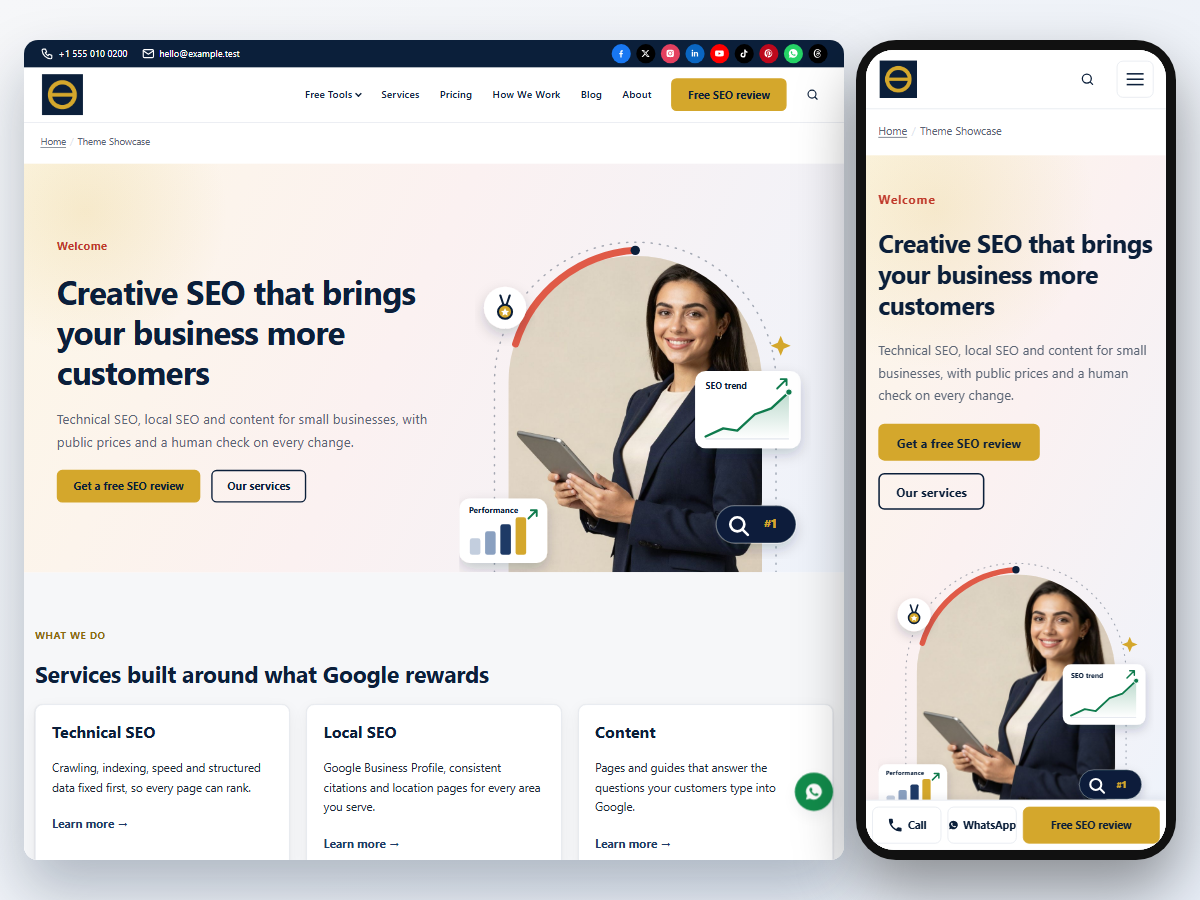
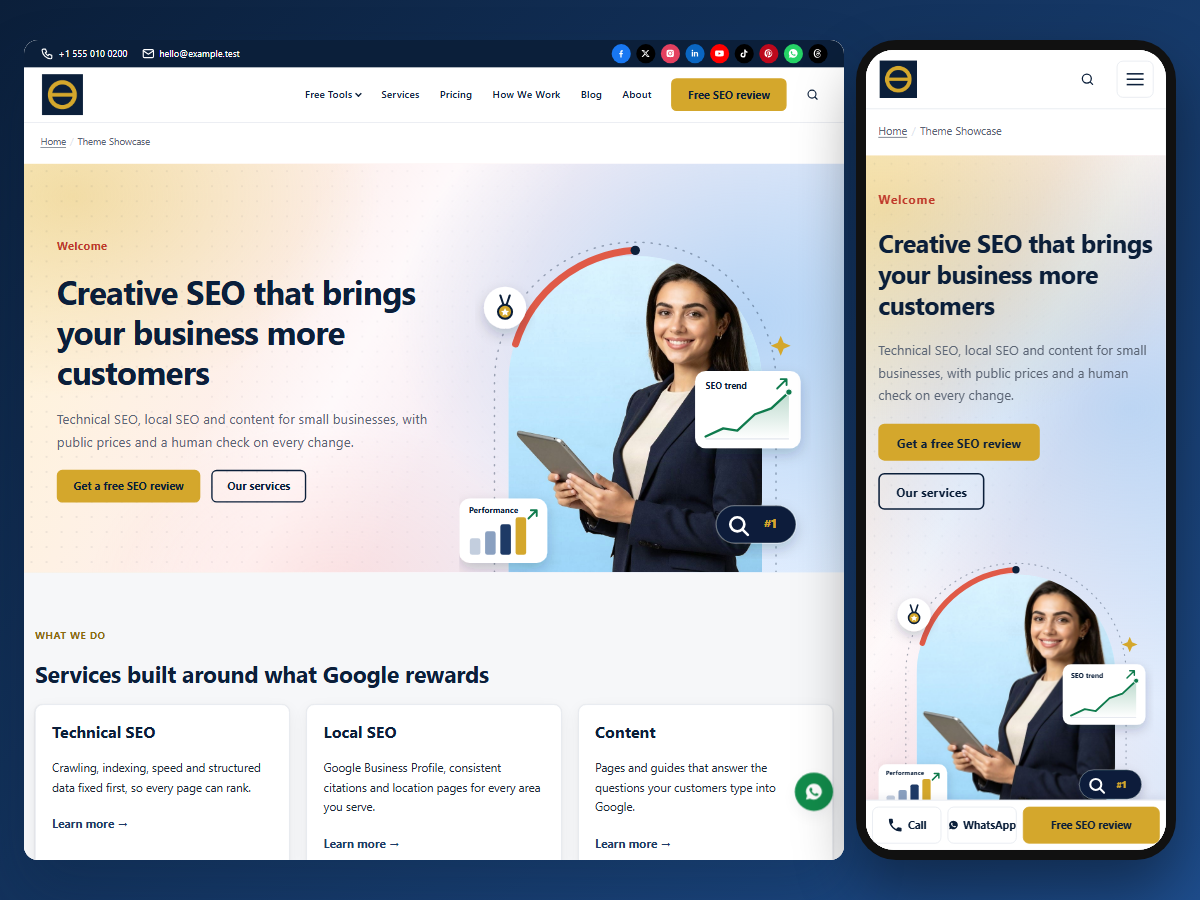
Theme 1.3.5 / child 1.2.5 / SEMRS Site 1.1.2: shiny hero background, retouched sky-blue photo, navy screenshots

diff --git a/semrs-site/theme/semrs/style.css b/semrs-site/theme/semrs/style.css
@@ -4,7 +4,7 @@ Theme URI:         https://semrs.com/
 Author:            SEMRS
 Author URI:        https://semrs.com/
 Description:       Lightweight, SEO-first theme for businesses, agencies and blogs. Drag-and-drop header and footer builder with top bar, sticky and transparent header, header search and a mobile menu panel. Seven section patterns, sidebar layouts, blog grid or list, reading progress bar, author box, related posts and per-page header, footer and sidebar options. No jQuery: one stylesheet and one small script.
-Version:           1.3.4
+Version:           1.3.5
 Requires at least: 6.5
 Tested up to:      7.1
 Requires PHP:      7.4
@@ -535,8 +535,8 @@ label { font-weight: 600; color: var(--sp-primary); }
 
 /* ---------- C7. Hero with cover image ---------- */
 .semrs-hero-cover, .entry-content > .wp-block-group.alignfull.semrs-hero-cover, .sp-full-width .entry-content > .wp-block-group.alignfull.semrs-hero-cover { padding-left: clamp(16px, 4vw, 48px); padding-right: clamp(16px, 4vw, 48px); }
-.semrs-hero-cover { position: relative; overflow: hidden; padding-bottom: 0; background: linear-gradient(115deg, #fdf7e7 0%, #fbf1f1 45%, #eef3fb 100%); }
-.semrs-hero-cover::before { content: ""; position: absolute; left: -120px; top: -140px; width: 420px; height: 420px; border-radius: 50%; background: radial-gradient(circle, rgba(212, 167, 44, .16), rgba(212, 167, 44, 0) 70%); pointer-events: none; }
+.semrs-hero-cover { position: relative; overflow: hidden; padding-bottom: 0; background: radial-gradient(640px 420px at 6% 8%, rgba(212, 167, 44, .30), rgba(212, 167, 44, 0) 70%), radial-gradient(760px 560px at 88% 38%, rgba(86, 166, 236, .34), rgba(86, 166, 236, 0) 68%), radial-gradient(520px 360px at 38% 105%, rgba(255, 140, 120, .16), rgba(255, 140, 120, 0) 70%), linear-gradient(118deg, rgba(255, 255, 255, 0) 30%, rgba(255, 255, 255, .65) 42%, rgba(255, 255, 255, 0) 54%), linear-gradient(115deg, #fff4d6 0%, #fdeef2 42%, #dcecff 100%); }
+.semrs-hero-cover::before { content: ""; position: absolute; inset: 0; background-image: radial-gradient(rgba(11, 31, 58, .07) 1px, transparent 1.5px); background-size: 22px 22px; -webkit-mask-image: linear-gradient(90deg, #000 0%, rgba(0, 0, 0, .5) 45%, transparent 70%); mask-image: linear-gradient(90deg, #000 0%, rgba(0, 0, 0, .5) 45%, transparent 70%); pointer-events: none; }
 .semrs-hero-cover__cols { position: relative; gap: 2rem !important; margin-bottom: 0; }
 .semrs-hero-cover__text { padding-bottom: var(--sp-section); }
 .semrs-hero-cover .semrs-eyebrow { color: #c0392b; letter-spacing: .04em; text-transform: none; font-size: 1rem; }
@@ -546,7 +546,7 @@ label { font-weight: 600; color: var(--sp-primary); }
 /* Photo in an arch with SEO cards around it (overlay SVG never covers the face or tablet). */
 .semrs-hero-cover__stage { position: relative; width: 100%; max-width: 600px; aspect-ratio: 1 / 1; margin: 1.5rem 0 0 auto; }
 .semrs-hero-cover__stage > .wp-block-image { margin: 0; }
-.semrs-hero-cover__photo { position: absolute; left: 14%; right: 14%; top: 10%; bottom: 0; overflow: hidden; border-radius: 999px 999px 0 0; background: #efe6dc; }
+.semrs-hero-cover__photo { position: absolute; left: 14%; right: 14%; top: 10%; bottom: 0; overflow: hidden; border-radius: 999px 999px 0 0; background: #d6eefb; }
 .semrs-hero-cover__photo img { display: block; width: 100%; height: 100%; object-fit: cover; object-position: center top; }
 .semrs-hero-cover__overlay { position: absolute; inset: 0; pointer-events: none; z-index: 1; }
 .semrs-hero-cover__overlay img { display: block; width: 100%; height: 100%; }

diff --git a/semrs-site/preview/shots/theme-shot.html b/semrs-site/preview/shots/theme-shot.html
@@ -6,5 +6,5 @@ html,body{margin:0;width:1200px;height:900px;overflow:hidden;background:linear-g
 .phone iframe{border:0;width:390px;height:1040px;transform:scale(.769);transform-origin:0 0;border-radius:36px;background:#fff;display:block}
 </style></head><body>
 <div class="desk"><iframe id="d" scrolling="no"></iframe></div><div class="phone"><iframe id="m" scrolling="no"></iframe></div>
-<script>var q=new URLSearchParams(location.search),s=q.get("shot")||"parent",p=q.get("page")||"theme-showcase",u="/"+p+"/?semrs_shot="+s+"&v="+Date.now();document.getElementById("d").src=u;document.getElementById("m").src=u;</script>
+<script>var BG={light:"linear-gradient(135deg,#f6f7f9,#e8eef7)",navy:"linear-gradient(135deg,#0b1f3a 0%,#1e4d8c 100%)",violet:"linear-gradient(135deg,#667eea 0%,#764ba2 100%)",sunrise:"linear-gradient(135deg,#e0f2fe 0%,#fdf2d6 100%)"};var q=new URLSearchParams(location.search),s=q.get("shot")||"parent",p=q.get("page")||"theme-showcase",u="/"+p+"/?semrs_shot="+s+"&v="+Date.now();document.body.style.background=BG[q.get("bg")||"navy"];if(q.get("sky")){["d","m"].forEach(function(id){var f=document.getElementById(id);f.onload=function(){var doc=f.contentDocument;doc.querySelectorAll("img").forEach(function(i){if(/hero-photo.jpg/.test(i.src))i.src="/semrs-assets/shots/hero-photo-sky.jpg";});doc.querySelectorAll(".semrs-hero-cover__photo").forEach(function(e){e.style.background="#d6eefb";});};});}document.getElementById("d").src=u;document.getElementById("m").src=u;</script>
 </body></html>

diff --git a/semrs-site/plugins/semrs-site/assets/site.css b/semrs-site/plugins/semrs-site/assets/site.css
@@ -10,7 +10,7 @@
 /* Hero with photo: arch-shaped photo + transparent overlay with SEO cards. */
 .semrs-hero-photo__stage { position: relative; width: 100%; max-width: 600px; aspect-ratio: 1 / 1; margin: 0 0 0 auto; }
 .semrs-hero-photo__stage > .wp-block-image { margin: 0; }
-.semrs-hero-photo__img { position: absolute; left: 14%; right: 14%; top: 10%; bottom: 0; overflow: hidden; border-radius: 999px 999px 0 0; background: #efe6dc; }
+.semrs-hero-photo__img { position: absolute; left: 14%; right: 14%; top: 10%; bottom: 0; overflow: hidden; border-radius: 999px 999px 0 0; background: #d6eefb; }
 .semrs-hero-photo__img img { display: block; width: 100%; height: 100%; object-fit: cover; object-position: center top; }
 .semrs-hero-photo__overlay { position: absolute; inset: 0; pointer-events: none; z-index: 1; }
 .semrs-hero-photo__overlay img { display: block; width: 100%; height: 100%; }

diff --git a/semrs-site/theme/semrs-child-seo/style.css b/semrs-site/theme/semrs-child-seo/style.css
@@ -5,7 +5,7 @@ Description:  SEMRS brand layer for the SEMRS theme: navy/gold brand tokens, sti
 Author:       SEMRS
 Author URI:   https://semrs.com/
 Template:     semrs
-Version:      1.2.4
+Version:      1.2.5
 Requires at least: 6.5
 Tested up to: 7.1
 Requires PHP: 7.4

diff --git a/semrs-site/plugins/semrs-site/semrs-site.php b/semrs-site/plugins/semrs-site/semrs-site.php
@@ -2,7 +2,7 @@
 /**
  * Plugin Name:       SEMRS Site (semrs.com only)
  * Description:       semrs.com-only additions that are never given to clients: the SEMRS Store (products, collection and product pages, pricing) and SEMRS Pro sales page installer, the Keyword Ideas Generator tool, and the "Hero with photo and keyword tool" pattern and its photo. Needs SEMRS Tools for the tool.
- * Version:           1.1.1
+ * Version:           1.1.2
  * Requires at least: 6.5
  * Requires PHP:      7.4
  * Author:            SEMRS
@@ -14,7 +14,7 @@
 
 defined( 'ABSPATH' ) || exit;
 
-define( 'SEMRS_SITE_VERSION', '1.1.1' );
+define( 'SEMRS_SITE_VERSION', '1.1.2' );
 define( 'SEMRS_SITE_DIR', plugin_dir_path( __FILE__ ) );
 define( 'SEMRS_SITE_URL', plugin_dir_url( __FILE__ ) );
 

diff --git a/semrs-site/theme/semrs/functions.php b/semrs-site/theme/semrs/functions.php
@@ -14,7 +14,7 @@
 
 defined( 'ABSPATH' ) || exit;
 
-define( 'SEMRS_THEME_VERSION', '1.3.4' );
+define( 'SEMRS_THEME_VERSION', '1.3.5' );
 define( 'SEMRS_THEME_DIR', get_template_directory() );
 define( 'SEMRS_THEME_URI', get_template_directory_uri() );
 

diff --git a/semrs-site/theme/semrs-child-seo/functions.php b/semrs-site/theme/semrs-child-seo/functions.php
@@ -7,7 +7,7 @@
 
 defined( 'ABSPATH' ) || exit;
 
-define( 'SEMRS_CHILD_VERSION', '1.2.4' );
+define( 'SEMRS_CHILD_VERSION', '1.2.5' );
 
 /**
  * Read a child setting (Customizer → SEMRS Theme → Contact & conversion).
